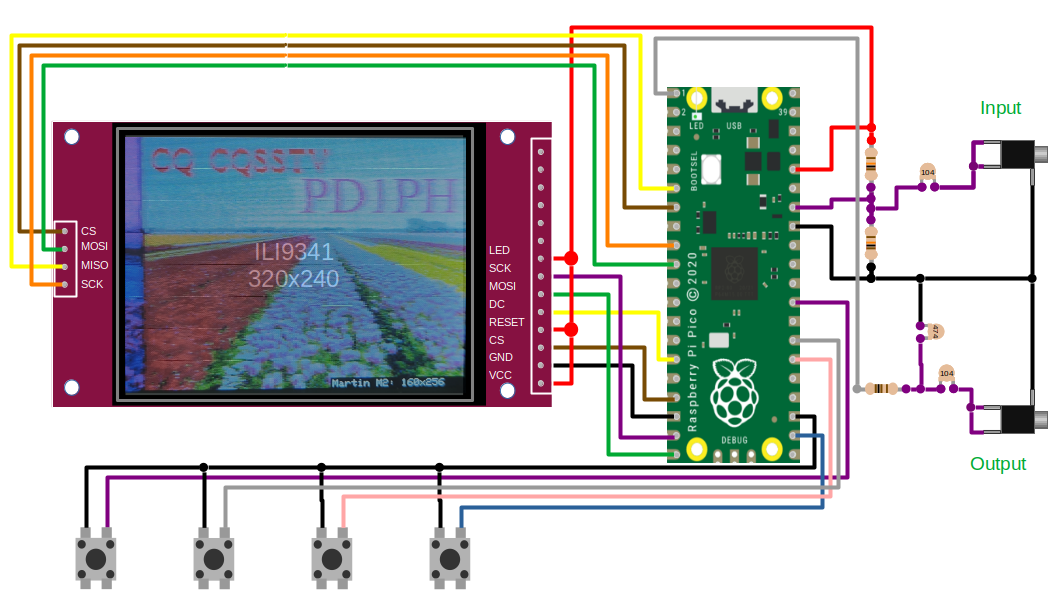
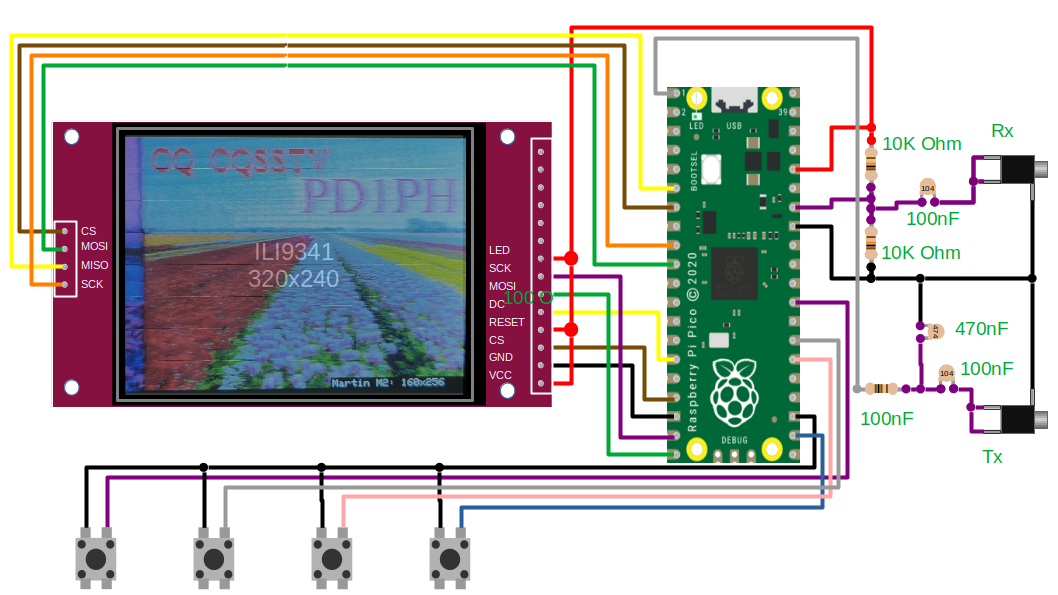
Update docs

diff --git a/docs/sstv_decoder_part2.rst b/docs/sstv_decoder_part2.rst
@@ -94,8 +94,8 @@ resolution allowing a very precise and stable frequency to be output. The
 output from the phase accumulator controls a lookup table that has been
 pre-programmed with a sin wave.
 
-Menu Driven Encoder/Decoder
----------------------------
+Full Example - Menu Driven Encoder/Decoder
+------------------------------------------
 
 While the basic examples give the minimal code needed to recieve or transmit an
 SSTV signal, this example is more complete, including many of the features
@@ -106,7 +106,7 @@ user interface that allows you to browse files and customise settings.
 .. image:: images/sstv_part2/full_circuit.png
 
 The user interface uses an additional 4 buttons to drive a menu, and the
-circuit shares a lot of similarity to the planetarium design. A menu allows the
+circuit shares a lot of similarity to the `planetarium <https://101-things.readthedocs.io/en/latest/planetarium.html>`__ design. A menu allows the
 user to switch between transmit, receive, file-browse (slideshow) mode as well
 as providing a settings menu that allows the decoder configuration to be
 customised.
@@ -114,6 +114,70 @@ customised.
 The Arduino Pico core includes a library to emulate an EEPROM using the Pi
 Pico's onboard flash. This feature is used to store user settings and restore
 them after each power cycle.
+
++-----------------------------------------+----------+---------------------------------+------------------------------+
+| Part                                    | Quantity | Example URL                     | Notes                        |
++=========================================+==========+=================================+==============================+
+| 320x240 ILI9341 or ILI9342 SPI Display  | 1        | `<https://shorturl.at/Kwjb0>`__ | for receive examples         |
++-----------------------------------------+----------+---------------------------------+------------------------------+
+| Raspberry Pi Pico                       | 1        | `<https://shorturl.at/bKibr>`__ |                              |
++-----------------------------------------+----------+---------------------------------+------------------------------+
+| Resistor 10k                            | 2        | `<https://shorturl.at/aSetc>`__ | for receive examples         |
++-----------------------------------------+----------+---------------------------------+------------------------------+
+| Capacitor Ceramic 100n                  | 2        | `<https://shorturl.at/smvFK>`__ | 1 for transmit 1 for receive |
++-----------------------------------------+----------+---------------------------------+------------------------------+
+| Resistor 100 ohm                        | 2        | `<https://shorturl.at/QXFMh>`__ | for transmit examples        |
++-----------------------------------------+----------+---------------------------------+------------------------------+
+| Capacitor Ceramic 470n                  | 1        | `<https://shorturl.at/hRgnC>`__ | for transmit examples        |
++-----------------------------------------+----------+---------------------------------+------------------------------+
+| 3.5mm Stereo Socket                     | 1        | `<https://shorturl.at/KUiZ2>`__ | 1 for transmit 1 for receive |
++-----------------------------------------+----------+---------------------------------+------------------------------+
+| Tactile buttons 6mm                     | 4        | `<https://shorturl.at/IHNVn>`__ | for menu driven interface    |
++-----------------------------------------+----------+---------------------------------+------------------------------+
+| SD Card                                 | 1        | `<https://shorturl.at/C5DyY>`__ | for SD Card Examples         |
++-----------------------------------------+----------+---------------------------------+------------------------------+
+| 3D Printed Enclosure                    | 1        | `<https://shorturl.at/M5z12>`__ |                              |
++-----------------------------------------+----------+---------------------------------+------------------------------+
+
+(Note: Links are for illustrative purposes and not necessarily recommendations.)
+
+The display wiring is shown below:
+
++-----------+---------------+----------------------+------------------+
+| Signal    | Display Pin   | Pico Pin Number      | Pico GPIO Number |
++===========+===============+======================+==================+
+| Vcc       | 1             | 36 (3v3 out)         | NA               |
++-----------+---------------+----------------------+------------------+
+| Gnd       | 2             | 18 (GND)             | NA               |
++-----------+---------------+----------------------+------------------+
+| CS        | 3             | 17                   | 13               |
++-----------+---------------+----------------------+------------------+
+| RESET     | 4             | 36 (3v3 out)         | NA               |
++-----------+---------------+----------------------+------------------+
+| DC        | 5             | 15                   | 11               |
++-----------+---------------+----------------------+------------------+
+| MOSI      | 6             | 20                   | 15               |
++-----------+---------------+----------------------+------------------+
+| SCK       | 7             | 19                   | 14               |
++-----------+---------------+----------------------+------------------+
+| LED       | 8             | 36 (3v3 out)         | NA               |
++-----------+---------------+----------------------+------------------+
+
+The four buttons used to navigate the menu each connect between GND and a spare GPIO pin:
+
++-----------+----------------------+------------------+
+| Signal    | Pico Pin Number      | Pico GPIO Number |
++===========+======================+==================+
+| Gnd       | 23 (GND)             | NA               |
++-----------+----------------------+------------------+
+| UP_BTN    | 22                   | 17               |
++-----------+----------------------+------------------+
+| DOWN_BTN  | 26                   | 20               |
++-----------+----------------------+------------------+
+| RIGHT_BTN | 27                   | 21               |
++-----------+----------------------+------------------+
+| LEFT_BTN  | 29                   | 22               |
++-----------+----------------------+------------------+
 
 Slideshow Mode
 --------------
@@ -137,7 +201,7 @@ embedded directly in the image.
 
 The text overlay is implemented using a frame buffer that allows text and
 drawing primitives to be drawn in an area of memory. The frame buffer code was
-reused from the pico planetarium project.
+reused from the `pico planetarium project <https://101-things.readthedocs.io/en/latest/planetarium.html>`__.
 
 Although I could have used a touch screen for text entry, I wanted to support
 non-touch TFT displays, and didn't want to add additional hardware at this
@@ -152,7 +216,7 @@ text entry with a little practice.
 .. image:: images/sstv_part2/enclosure_complete.jpg
 
 The 3D printed enclosure design has been reworked to accomodate the extended
-functinality. I used the planetarium design as a starting point, this allready
+functinality. I used the `planetarium <https://101-things.readthedocs.io/en/latest/planetarium.html>`__ design as a starting point, this allready
 includes provision for the 4 buttons and TFT display. 
 
 The enclosure allows easy access to the Pico's USB port, while also allowing
